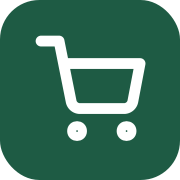
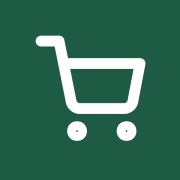
Add files via upload

diff --git a/index.html b/index.html
@@ -44,7 +44,7 @@
 
   /* Marke */
   .brand{display:inline-flex; align-items:center; gap:11px; font-family:var(--disp); font-weight:800; font-size:20px; color:var(--ink); text-decoration:none}
-  .brand .mk{width:32px; height:32px; border-radius:9px; background:var(--green); display:grid; place-items:center; box-shadow:0 5px 12px -4px rgba(30,91,68,.7); flex:none}
+  .brand .mk{width:32px; height:32px; border-radius:11px; background:var(--green); display:grid; place-items:center; box-shadow:0 5px 12px -4px rgba(30,91,68,.7); flex:none}
   .brand .mk svg{width:18px; height:18px; color:#fff}
 
   header{position:sticky; top:0; z-index:30; background:rgba(251,250,246,.82); backdrop-filter:saturate(1.4) blur(10px); border-bottom:1px solid var(--line)}
@@ -518,7 +518,7 @@
       <ul>
         <li><svg><use href="#i-check"/></svg> Eine Liste f&uuml;r Dich allein</li>
         <li><svg><use href="#i-check"/></svg> Archiv und &bdquo;H&auml;ufig gekauft&ldquo;</li>
-        <li><svg><use href="#i-check"/></svg> Weitere Listen bleiben lesbar</li>
+        <li><svg><use href="#i-check"/></svg> Weitere Listen bleiben lesbar erhalten</li>
       </ul>
       <p class="fnote">F&uuml;r den gemeinsamen Haushalt und das Erfassen per Text, Foto oder Sprache brauchst Du ein Abo.</p>
     </div>
